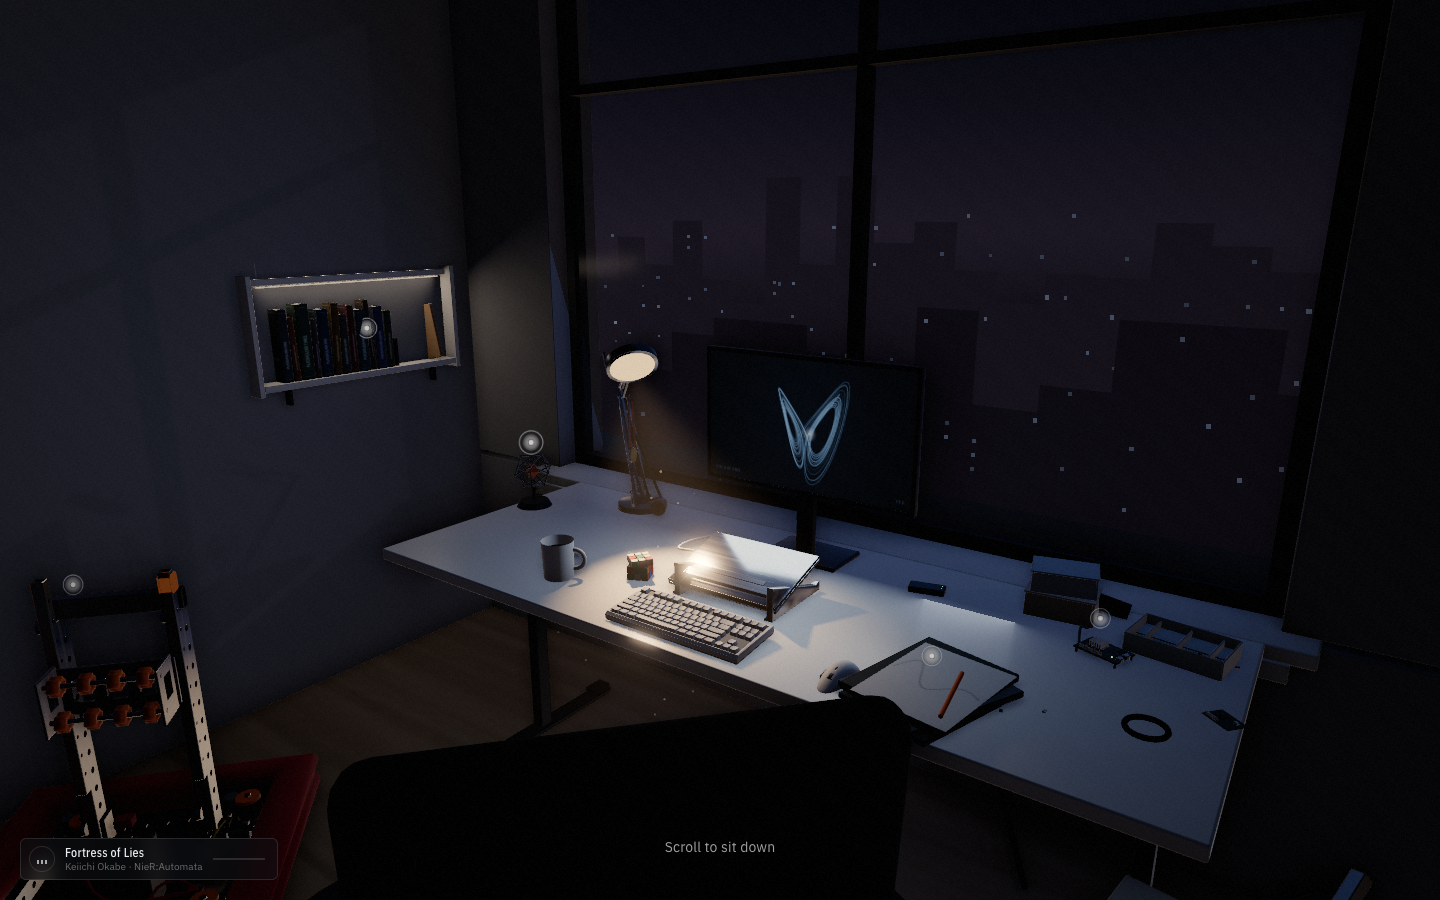
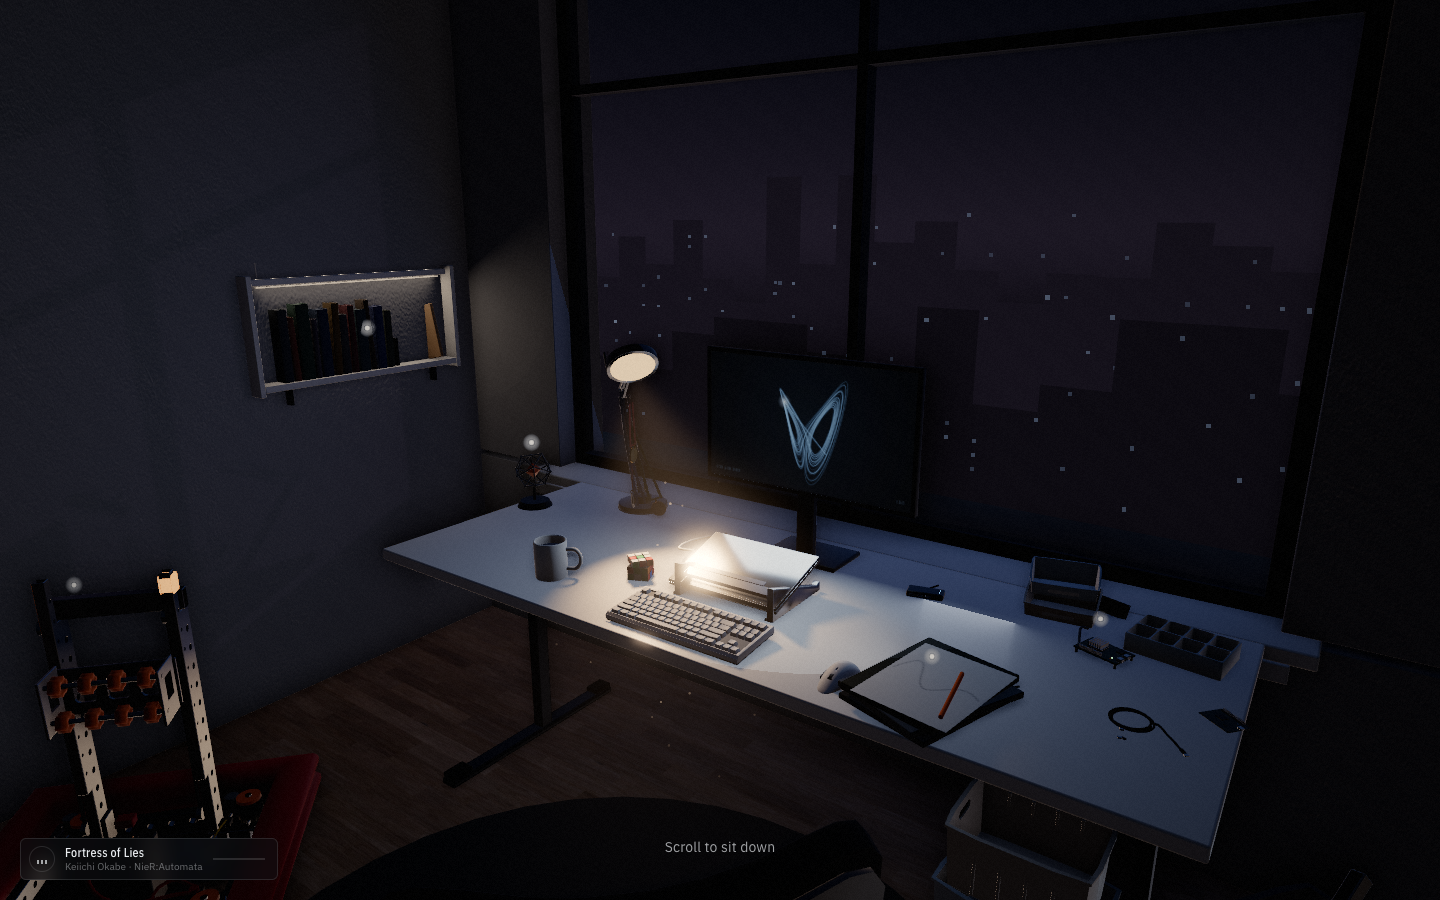
Performance log: rendering pass before/after, rejected experiments, test run
Includes refreshed verification screenshots from the final test run.

Claude-Session: https://claude.ai/code/session_01Fp4Co9nnxEnUTGsgahJg8Z

diff --git a/perf/LOG.md b/perf/LOG.md
@@ -124,6 +124,13 @@ No missed frames in any scenario at any hour, baseline or now. Main-thread CPU p
 Draw calls: seated idle 168 → 96, hover 246 → 109, popup 150 → 77. Triangles in popup 103k → 38k.
 
 ## Resolution cliff (open question for the visual pass)
+
+> **Correction (rendering pass, below):** this "cliff" was a bug, not the GPU. `EffectComposer` was
+> constructed with a render target sized in device pixels, took that as its CSS size and applied
+> the pixel ratio again, so every post buffer ran at ratio² — "1.25" was really 1.5625 and "1.5"
+> was 2.25 — until a window resize happened to correct it. Headless runs never resize. Every
+> pinned-ratio number in the tables above is at ratio². Comparisons stand (both sides had the bug).
+
 Truly pinned at 1.5, the full pipeline costs 17–20 ms uncapped (37–49 fps under vsync) against
 6–10 ms at 1.25: ~2× cost for 1.44× pixels, not explained by MSAA (msaa 0/2/4 all show it).
 Calibration correctly lands on 1.25 on this GPU. Making 1.5 affordable would need fewer
@@ -199,3 +206,162 @@ Where headroom is still thin: **turning the head** (seated look) recomputes AO e
 the pipeline is fill-bound — pixel ratio 1.5 costs ~2× 1.25 on this GPU. Next levers, measured
 but not yet spent: AO at reduced resolution only while the view moves; fewer full-resolution
 post passes; temporal accumulation for AO/volumetrics.
+
+# Rendering pass: precompute what can be known, and stop shading what cannot be seen
+
+Method changes for this pass:
+- **Fence timing.** `window.__room.bench(pose)` (`src/debug/bench.ts`, debug-only, lazy) parks the
+  camera, pauses the loop and times N composer renders between two `fenceSync` waits: real GPU
+  completion, not queue time. Feature costs are A/B toggles alternated inside one page load.
+  `scripts/bench.mjs` (per pass/light/feature), `scripts/bench-materials.mjs` (per material),
+  `scripts/bench-ab.mjs` (URL variants in interleaved page loads, three seated poses; "look" forces
+  AO to recompute every frame, "idle" reuses it).
+- **Image checks.** `scripts/compare-variants.mjs` + `.py`: reduced motion, `lorenz=0`, parked
+  views (seated, desk right, shelf, standing), mean/>8-level pixel diff against a reference variant
+  and side-by-side sheets. Same-build noise floor ≈ 0.3–0.6 mean. `scripts/lamp-shots.mjs`: night
+  close-ups of the lamp pool.
+- True pixel ratio 1.5 (the fix above), 1440×900 CSS at DPR 2 = 2160×1350 rendered.
+
+## Where the 10.8 ms went (seated, turning, pr 1.5, before this pass)
+
+| cost | ms |
+|---|---|
+| scene render (MSAA 2×) | 5.1–5.6 |
+| · rect-area lights (4) | ~4.0 — specular ~2.1, diffuse ~1.2 (interleaved toggles) |
+| · lamp / sun / environment | 0.7 / 0.3–0.6 / 0.3–0.6 |
+| GTAO (recomputed every turning frame) | 3.2–3.4 — AO shader 2.5–2.7, normals 0.7, denoise 0.7 |
+| bloom / volumetric | 0.5–0.7 / 0.3–0.8 |
+| CPU submission | 0.5–0.8 |
+
+GPU-bound: CPU is under a millisecond, draw calls ~160, shadow-map redraws already rare and cheap.
+The time was per-pixel integrals re-evaluated every frame for answers that barely change.
+
+## 1. Rect-area light specular → environment probe + near field
+
+What: three evaluates an LTC polygon integral (plus two LUT fetches) for every rect light's
+specular on every pixel. Now (`src/scene/areaLights.ts`):
+- Diffuse stays per pixel, exact, but skips a light where the bound
+  4·|hw|·|hh|·max(radiance)/d² < 0.0005 — the shelf strip and desk spill are invisible almost
+  everywhere on screen.
+- **Large emitters (the window)** get their specular from the probe: a pane at the light's
+  radiance (÷ environment intensity) on a reflection-only layer is drawn over the cube capture,
+  unoccluded like the integral. The capture is filtered twice — once without panes for irradiance
+  (materials read it through a shared `envMapIrradiance` uniform), once with them for radiance — so
+  the window is not counted twice in diffuse. Capture already happens only when the light drifts.
+- **Small emitters** keep the LTC specular only within 70 cm, where a room-centred probe is wrong:
+  the monitor 30 cm from the laptop lid.
+
+Measured (interleaved, pr 1.5): look 10.5 → 8.2, idle 7.2 → 4.6 ms, day and night alike.
+Image vs `?arealights=pixel`: seated 1.05–1.64, desk 1.07–1.10, shelf 0.89–1.82, standing
+0.95–1.99 mean — the remainder a faint window sheen on the floor (probe parallax).
+
+Rejected on the way:
+- Specular simply dropped: saved the same but the laptop lid went from white to dark navy, day and
+  night (mean diff 5–7 seated).
+- Window pane in the probe without the split filter: the lid came back, but the room brightened
+  (window counted twice in irradiance; standing 5.4 mean diff).
+- Pane only for the window, no near field: lid still dark at night (monitor reflection is near
+  field). Near field costs no measurable time (8.36 vs 8.16 ms, noise).
+- **Per-vertex diffuse** (form factor in the vertex shader, receivers tessellated): a further
+  ~0.8 ms, but near-field banding where a small light sits close to a large face (shelf strip on the
+  back wall at night). Per-vertex diffuse with per-pixel specular saved nothing — specular was the
+  cost. Removed.
+
+## 2. AO at half resolution while the view moves
+
+What (`src/scene/ao.ts`): while the view sweeps (> 0.6 CSS px/frame) or on-screen geometry keeps
+invalidating, depth/normals, trace and denoise all run on half-resolution targets (denoise radius
+halved to keep its footprint). Still for 0.12 s → full resolution computed once and crossfaded in
+over 0.2 s. Idle breathing stays below the motion threshold, so a resting view is always full
+resolution. Outline and light shafts read the half depth while moving: pixel-identical outline.
+
+Measured: AO recompute 3.3 → ~0.8 ms. Seated look 8.1 → 6.0 (half AO) → 5.4 (half G-buffer too).
+Image, still vs forced-moving path: 0.3–0.6 mean — thin geometry (lamp arms) gains a faint halo
+at half resolution, which is why it never shows at rest. `scripts/verify-ao-motion.mjs`: idle 100%
+full, sweep 88% half, back to full after the camera's glide settles (~1.2 s after the mouse stops).
+
+Considered and not done: temporal accumulation (reprojection ghosting on the chair, books and
+robot; the half-resolution path already recovers most of the cost); baked AO (desk-scale contact
+occlusion between props is exactly what vertex/lightmap AO on this geometry cannot hold, and GTAO's
+remaining cost while turning is under a millisecond).
+
+## 3. Window pane: image lighting only
+
+The pane covers a third of the seated view and was shaded with every direct light. The sun and
+the window light are behind it, monitor and shelf face away, and the lamp is already in it via the
+probe (its diffuser is in the capture). `imageLightingOnly` keeps IBL and ambient, drops the
+direct loops. −0.2 to −0.6 ms by pose; image diff 0.22–0.41 mean (noise floor), day/golden/night.
+
+## 4. The lamp as a disk (visual; costs ≤0.4 ms at night)
+
+See `src/scene/lampDisk.ts`. PCSS: blocker search (12 taps) on a float depth map of the casters —
+redrawn only when the lamp's shadow map is — with receiver-plane depth bias; penumbra
+r·(dR−dB)/dB; 12-tap filter on the hardware compare map; no blocker found → one filtered tap (a
+sparse search can step over a contact occluder). Specular roughness widened α' = α + r/2d.
+Falloff 1/(d² + r²). Shadow camera near 0.5 → 0.1 m (the medals on the arm were never in the map).
+Cube and mug shadows harden at contact and soften with height; the desk's pinpoint hot spot is a
+broad sheen; the dark laptop stand now shows the diffuser's reflection (verified to be specular,
+not a lost shadow: identical to the point light with widening off). Night seated +0.0–0.4 ms.
+
+## Measured and kept
+
+- MSAA 2× costs 0.8 ms (0× 4.5 / 2× 5.3 / 4× 5.8 look). Kept: edge crawl while turning is the
+  most visible regression available, and a post AA softens textures.
+- Bloom 0.67 ms: the tight levels carry the look (see the washout fix); dropping the wide levels
+  saves nothing (they are tiny mips).
+- Volumetric 0.3–0.4 ms at 0.4 resolution. Environment sampling 0.3–0.4 ms.
+- Per-material scene cost after the above (`bench-materials`): no material over ~0.5 ms; cost is
+  spread across the room's ~40 lit materials.
+
+## Considered, not done (with the numbers that decided it)
+
+- **Lightmaps / baked irradiance.** After §1 each remaining light costs 0.1–0.3 ms. Baking would
+  save ~1 ms while freezing a continuously moving sun and lamp, and needs a UV2 unwrap for procedural
+  geometry. The probe split in §1 already precomputes the expensive part (specular) per lighting
+  state.
+- **Occlusion/visibility culling.** CPU 0.5–0.8 ms, ~160 draw calls, GPU-bound fill: culling
+  saves CPU the frame is not waiting on.
+- **Dynamic resolution of the main pass.** Already adaptive (steps down on sustained slow frames);
+  now rarely engages.
+
+## Before → after (this pass)
+
+Baseline = `bca8de1` (start of the pass) **with only the composer ratio fix applied**, served from a
+git worktree, so the comparison isolates rendering work. `scripts/perf-suite.mjs`, uncapped, true
+pr 1.5 (2160×1350), runs interleaved base/now/base/now, averaged over day 13:00, golden 18:30,
+evening 20:00, night 21:30. Frame p50 / p95 / max ms, (missed-frame count summed over 8 runs),
+draw calls. (As shipped before the fix, buffers were 2.25× larger again.)
+
+| scenario | before | after | p50 |
+|---|---|---|---|
+| standing idle | 8.1 / 15.7 / 27 (22) · 137 | 5.3 / 10.2 / 17 (0) · 137 | −34% |
+| standing look | 8.9 / 24.4 / 35 (139) · 240 | 5.5 / 11.0 / 22 (0) · 155 | −38% |
+| sitting | 10.4 / 27.6 / 32 (205) · 281 | 5.7 / 11.3 / 23 (0) · 316 | −45% |
+| seated idle | 7.7 / 14.3 / 26 (16) · 93 | 5.1 / 9.5 / 15 (0) · 93 | −34% |
+| **seated look** | **10.4 / 27.6 / 45 (205) · 156** | **5.6 / 10.9 / 22 (0) · 155** | **−46%** |
+| hover | 8.2 / 15.8 / 30 (36) · 106 | 5.6 / 10.9 / 19 (0) · 106 | −32% |
+| focus transition | 11.4 / 24.7 / 33 (60) · 133 | 6.3 / 12.0 / 28 (1) · 130 | −45% |
+| popup open | 7.7 / 13.3 / 31 (16) · 77 | 5.4 / 9.7 / 19 (0) · 77 | −30% |
+| time transition | 8.1 / 21.9 / 51 (110) · 106 | 5.7 / 11.7 / 33 (6) · 107 | −30% |
+
+By hour (p50): seated idle 7.6→4.5 day, 7.8→5.3 golden, 7.8→5.3 evening, 7.7→5.2 night; seated look
+10.4→5.5 / 5.7 / 5.7 / 5.7; standing look 9.0→5.5 / 8.8→5.7 / 9.2→5.6 / 8.8→5.5; popup 7.7→5.4 /
+7.8→5.4 / 7.7→5.4 / 7.7→5.3. Night idle keeps ~0.7 ms more than day: the disk lamp's shadow work.
+Sitting draws +35 calls: the lamp blocker map redraws with the shadow maps while the chair rolls.
+
+Real 60 Hz (`CAPPED=1`, calibration picks 1.5): 60 fps, **zero missed frames in every scenario**
+day and night; main-thread CPU 1.0–1.9 ms avg, ≤3.7 ms p95. Heap 34–43 MB both builds, no growth.
+Loader hidden at 1.37–1.6 s; startup trace 60 fps with no frame over 16.8 ms after reveal.
+
+Image, before vs after, frozen grain (`scripts/compare-variants`): mean 0.8–2.3 per view and hour;
+the visible changes are the lamp (softer, contact-hardening shadows; wider highlight), and a slightly
+weaker window sheen on the lamp base by day (161 → 159 mean luminance in that patch).
+
+Tests: verify-room, verify-gesture, verify-motion, verify-a11y (keyboard focus, focus restore,
+reduced motion: no idle motion), verify-shelf, verify-shelf-a11y, verify-books, verify-ao-motion
+all pass with no console errors; compile-watch from 06:00, 13:00, 21:00: zero shader compiles after
+load across the 24 h sweep, hovers and shelf.
+
+**Largest remaining cost:** the main scene pass — lit PBR shading of ~40 materials at 2160×1350 with
+MSAA 2× (~3 ms, of which MSAA 0.8), spread evenly with no dominant material; then bloom (0.7) and
+AO while turning (~0.8).
